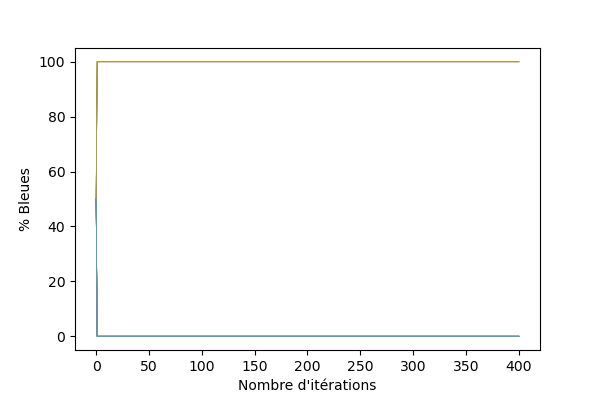
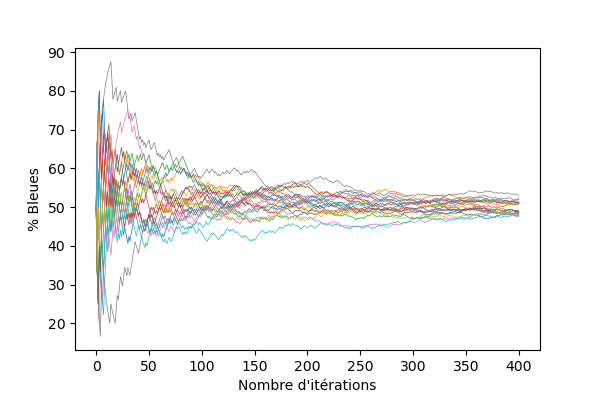
random

diff --git a/UrnesDePolyaV2.py b/UrnesDePolyaV2.py
@@ -19,6 +19,7 @@ def tracerUrnes(nbIt:int, nbSim:int, bPiochéAddBleu:int,bPiochéAddRouge:int,rP
         tauxBleuList.append(100*nbBleu/(nbBleu+nbRouge))
         for i in range(1,nbIt+1):
             num=random.randint(1,nbBleu+nbRouge)
+            rdm=random.randint(1,2)
             if operation=="Additionner": 
                 if(num<=nbBleu) :
                   nbBleu+=bPiochéAddBleu
@@ -33,6 +34,13 @@ def tracerUrnes(nbIt:int, nbSim:int, bPiochéAddBleu:int,bPiochéAddRouge:int,rP
                 else :
                     nbRouge*=rPiochéAddRouge
                     nbBleu*=rPiochéAddBleu
+            elif operation=="Aleatoire":
+                if(rdm==1) :
+                  nbBleu+=bPiochéAddBleu
+                  nbRouge+=bPiochéAddRouge
+                else :
+                    nbRouge+=rPiochéAddRouge
+                    nbBleu+=rPiochéAddBleu
             else :
                 raise IllegalArgumentError("Operation lors du tirage impossible")
             tauxBleuList.append(100*nbBleu/(nbBleu+nbRouge))
@@ -45,4 +53,4 @@ def tracerUrnes(nbIt:int, nbSim:int, bPiochéAddBleu:int,bPiochéAddRouge:int,rP
     plt.savefig("simul.png", format='png', dpi=100)
         
 
-graph=tracerUrnes(400, 20, 1, 0, 0, 1, "Multiplier", 1,1)
+graph=tracerUrnes(400, 20, 1, 0, 0, 1, "Aleatoire", 1,1)

diff --git a/ihm.py b/ihm.py
@@ -243,7 +243,7 @@ app.labelActionTirage.configure(justify='left')
 app.labelActionTirage.configure(text='''Lors du tirage,''')
 app.labelActionTirage.configure(compound='left')
 
-app.boxActionTirage = ttk.Combobox(app.frameTirageBoule, state="readonly", values=["Additionner", "Multiplier"])
+app.boxActionTirage = ttk.Combobox(app.frameTirageBoule, state="readonly", values=["Additionner", "Multiplier","Aleatoire"])
 app.boxActionTirage.place(relx=0.255, rely=0.374, relheight=0.081, width=100)
 app.boxActionTirage.configure(textvariable=app.combobox)
 app.boxActionTirage.configure(takefocus="#c4c4c4")
